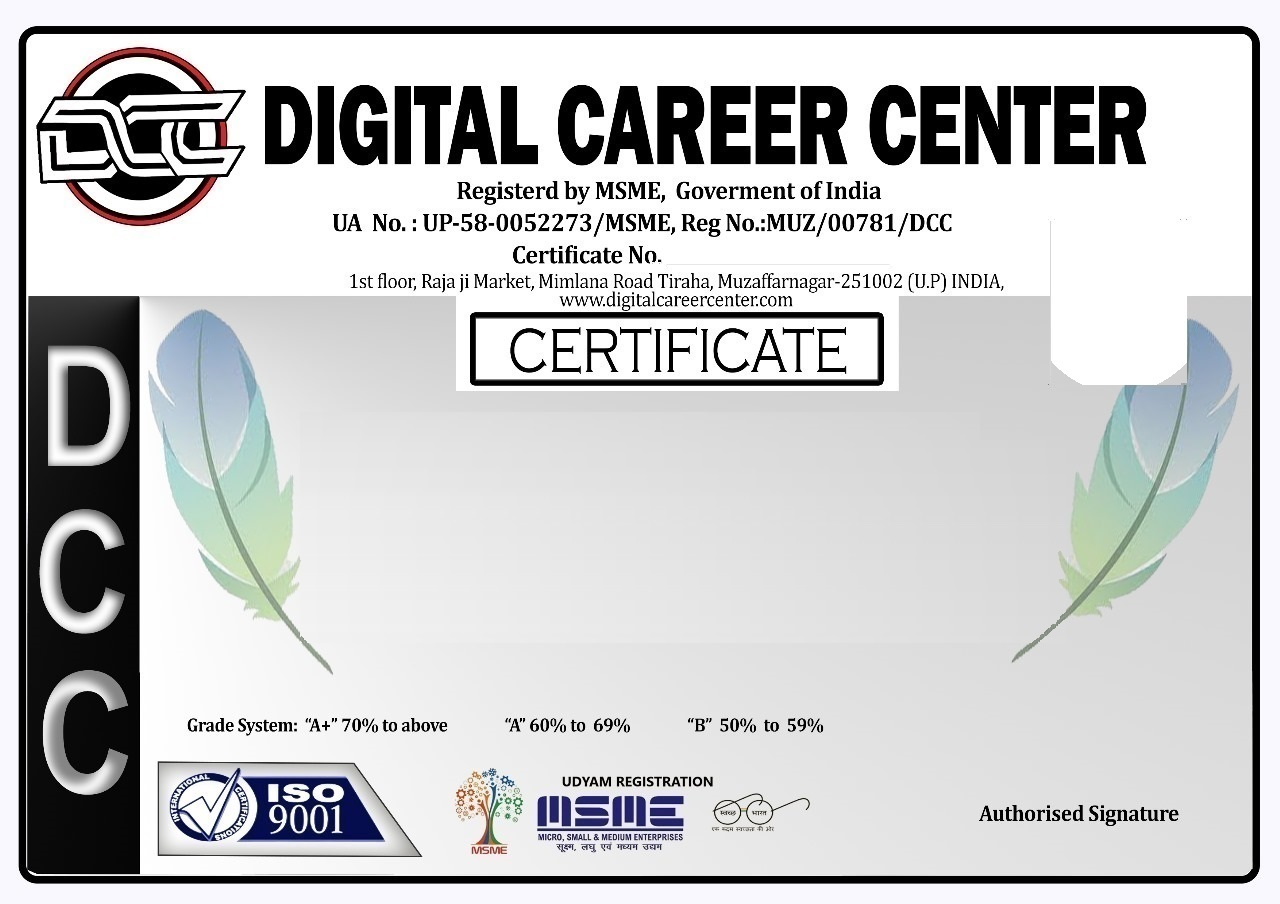
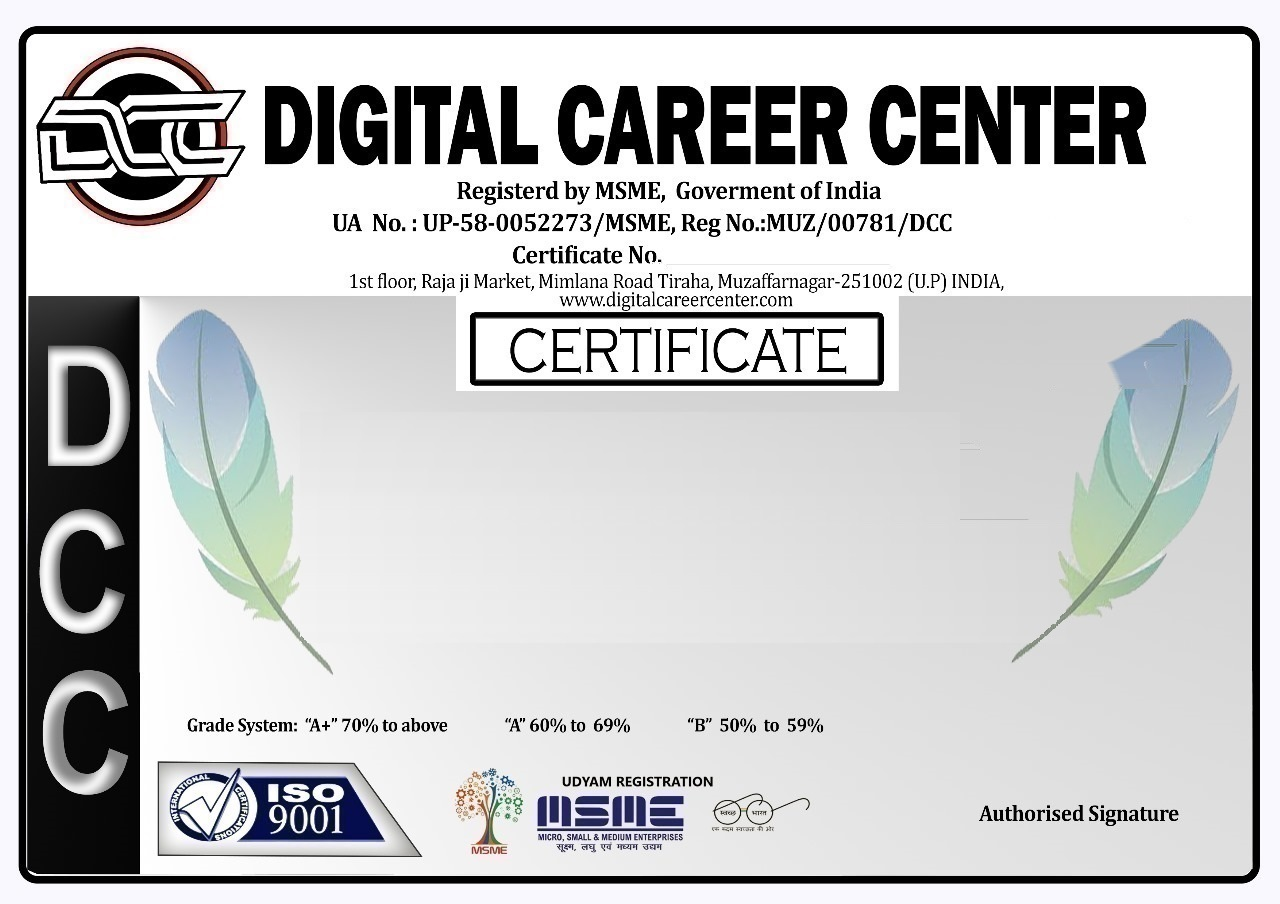
fgix

diff --git a/app/components/certificate/CertificatePreview.jsx b/app/components/certificate/CertificatePreview.jsx
@@ -82,7 +82,7 @@ export default function CertificatePreview({ certificate, className = '', sheetI
         }}
       >
         <img
-          src="/certificate-base.jpg?v=9"
+          src="/certificate-base.jpg?v=16"
           alt=""
           draggable={false}
           style={{ width: '100%', height: '100%', display: 'block', objectFit: 'fill' }}
@@ -152,9 +152,9 @@ export default function CertificatePreview({ certificate, className = '', sheetI
           style={{
             position: 'absolute',
             zIndex: 4,
-            left: '80.7%',
-            top: '23.9%',
-            width: '13.5%',
+            left: '81.4%',
+            top: '21.8%',
+            width: '12.8%',
             aspectRatio: '1',
             borderRadius: '50%',
             overflow: 'hidden',
@@ -203,10 +203,22 @@ export function printCertificateElement(element, title = 'Certificate') {
     <meta charset="utf-8" />
     <title>${escapeHtml(title)}</title>
     <style>
-      @page { size: landscape; margin: 8mm; }
-      html, body { margin: 0; padding: 0; background: #fff; }
-      body { display: flex; justify-content: center; align-items: flex-start; }
-      #${element.id || 'certificate-sheet'} { width: 1100px; max-width: 100%; }
+      @page { size: A4 landscape; margin: 0; }
+      html, body {
+        margin: 0;
+        padding: 0;
+        width: 297mm;
+        height: 210mm;
+        background: #fff;
+        overflow: hidden;
+      }
+      body { display: block; }
+      #${element.id || 'certificate-sheet'} {
+        width: 297mm !important;
+        max-width: none !important;
+        height: 210mm !important;
+        margin: 0 !important;
+      }
       * { -webkit-print-color-adjust: exact; print-color-adjust: exact; }
     </style>
   </head>
